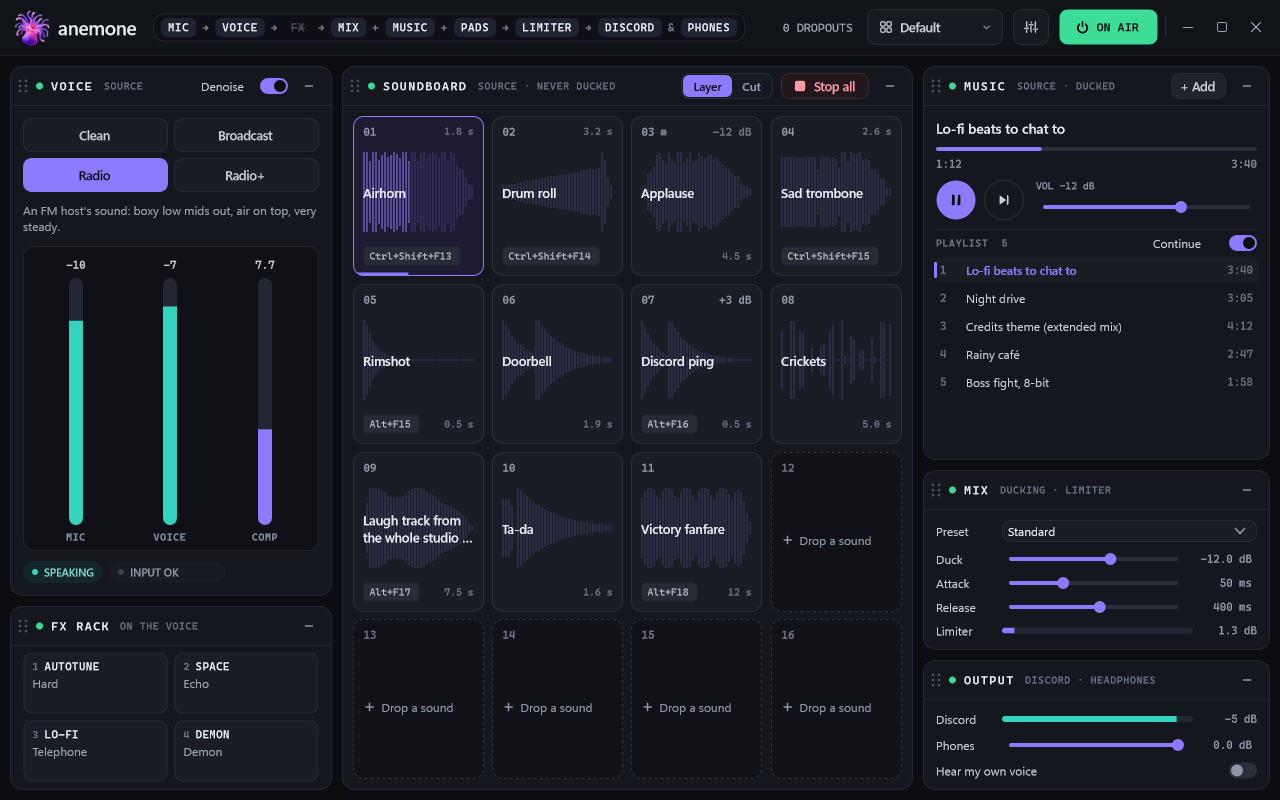
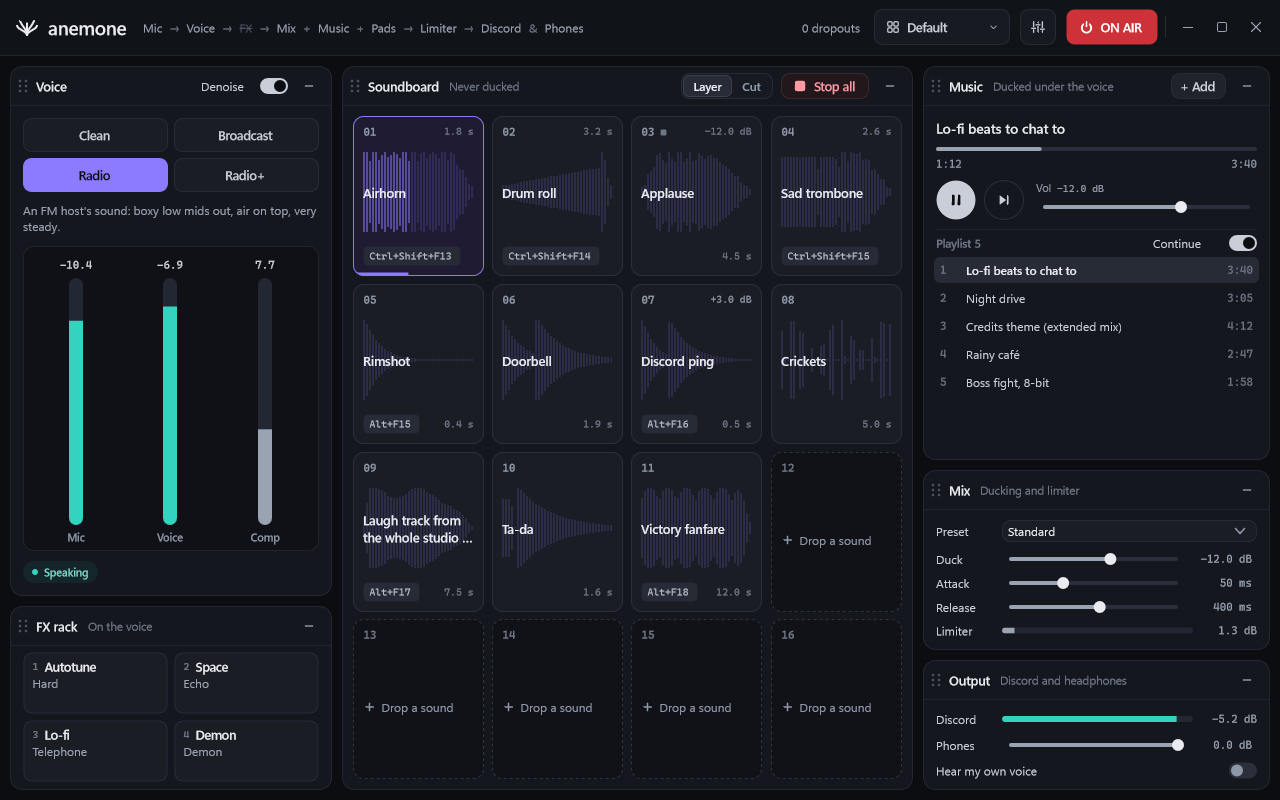
Anemone 1.1

diff --git a/README.md b/README.md
@@ -26,8 +26,8 @@ microphone.
 ## What it does
 
 - **Voice**: DeepFilterNet noise removal, then a broadcast-style chain (leveling, EQ, compression, de-essing, limiting) with four characters: *Clean*, *Broadcast*, *Radio* and *Radio+*.
-- **FX rack**: four slots of voice effects on hotkeys, in Hold or Toggle mode: *Autotune*, *Space* (echo, reverb), *Lo-fi* (telephone, megaphone, walkie-talkie) and *Demon*.
-- **Soundboard**: 16 pads with their own sound, volume and hotkey, in *Layer* or *Cut* mode.
+- **FX rack**: four slots of voice effects on hotkeys, in Hold or Toggle mode: *Autotune* (hard, soft or max), *Space* (echo, reverb or canyon), *Lo-fi* (telephone, megaphone, or a push-to-talk walkie-talkie with its squelch) and *Demon*.
+- **Soundboard**: 16 pads with their own sound, volume and hotkey, in *Layer* or *Cut* mode. Silence at the start and end of a sound is trimmed, so a pad fires at once.
 - **Music**: a playlist that stays, which ducks under your voice.
 - **Mix and output**: one limiter before the call; your headphones get their own level, with your own voice optional.
 - A rearrangeable window with layout presets, global hotkeys, and a tray icon to keep it running.

diff --git a/guide-fr.md b/guide-fr.md
@@ -36,6 +36,12 @@ Clique sur **Vérifions** pour t'entendre comme les autres t'entendent.
 
 Dans un jeu qui a son propre chat vocal, choisis `CABLE Output` comme micro, et coupe sa suppression de bruit s'il en a une.
 
+## Les effets
+
+Le panneau Rack FX a quatre emplacements. Un clic allume ou éteint un effet, et le clic droit choisit l'effet, sa variante, son intensité, son raccourci et son mode : *Bascule* (un appui allume, le suivant éteint) ou *Maintien* (actif tant que tu tiens la touche).
+
+Pour le talkie-walkie du RP : choisis la variante *Walkie* du Lo-fi (elle passe d'elle-même en *Maintien*) et donne-lui un raccourci. Tu parles en tenant la touche, et le « kssht » part quand tu la relâches.
+
 ## Bon à savoir
 
 - **Te couper** : le bouton **ON AIR** en haut d'Anemone (On/Off) coupe tout ce qui part vers l'appel. Il a un raccourci global, qui marche aussi en jeu.
